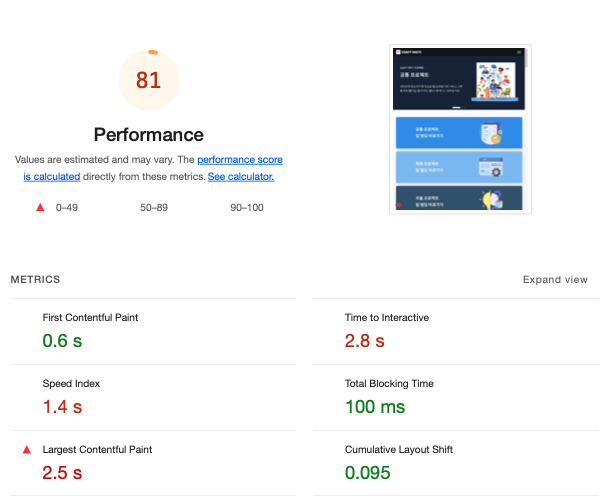
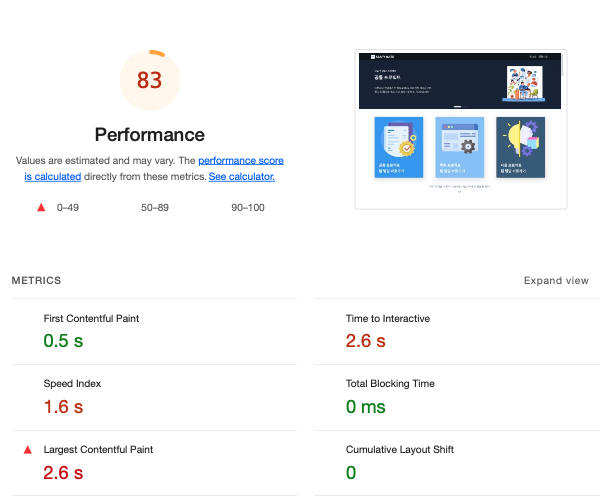
Docs : 웹 성능 최적화 부분 내용 업데이트

diff --git a/README.md b/README.md
@@ -70,7 +70,7 @@
 
 |   버전   | <div align="center">업데이트 내용</div>                                                                                                                                                                                                                                                                                                                                         | 업데이트 날짜 |
 | :------: | :------------------------------------------------------------------------------------------------------------------------------------------------------------------------------------------------------------------------------------------------------------------------------------------------------------------------------------------------------------------------------ | :-----------: |
-| `v1.2.5` | - 홈 배너 애니메이션 파일들을 기본 이미지 파일로 교체<br />- 프로젝트 트랙 소개 배너 mp4 파일들을 webp 파일 형식으로 교체<br />- 페이지 헤딩 처리 개편                                                                                                                                                                                                                          |   22.03.15.   |
+| `v1.2.5` | - 홈 배너 애니메이션 파일들을 기본 이미지 파일로 교체<br />- 프로젝트 트랙 소개 배너 mp4 파일들을 webp 파일 형식으로 교체<br />- 페이지 헤딩 처리 개편                                                                                                                                                                                                                          |   22.03.16.   |
 | `v1.2.4` | - 프로젝트 트랙 소개 배너 gif 파일 mp4 파일로 변경<br />- 서비스 Description 수정<br />- 서비스 로고 이미지 최적화                                                                                                                                                                                                                                                              |   22.03.14.   |
 | `v1.2.3` | - 채팅 서버 URL 수정                                                                                                                                                                                                                                                                                                                                                            |   22.03.07.   |
 | `v1.2.2` | - 첫 페이지 웹 성능 최적화<br />- 페이지 헤딩 처리 수정                                                                                                                                                                                                                                                                                                                         |   22.03.07.   |
@@ -194,15 +194,18 @@
 
 ### 웹 성능 최적화
 
-|                                              웹 성능 최적화 전                                              |                                             웹 성능 최적화 후                                              |
+|                                              웹 성능 최적화 전                                              |                                     웹 성능 최적화 후 (22.03.16. 기준)                                     |
 | :---------------------------------------------------------------------------------------------------------: | :--------------------------------------------------------------------------------------------------------: |
 | <img src="./readme_assets/before-web-optimization.png" alt="웹 성능 최적화 전 분석 이미지" width="500px" /> | <img src="./readme_assets/after-web-optimization.png" alt="웹 성능 최적화 후 분석 이미지" width="500px" /> |
 
 - '지연 로딩(Lazy Loading)' 적용
 - 이미지 파일 최적화
-- gif 파일들을 mp4 파일들로 교체
+  - 이미지 Meta Data 제거 및 최적화
+  - 뷰포트에 따른 여러 버전의 이미지 제공
+- gif 파일들을 webp, png 파일들로 교체
+- 불필요한 JS 파일 제거
 
-> 위의 작업들을 통해 Performance Score 62점 → 81점 으로 개선, Speed Index 속도 3.5초 → 1.4초로 개선
+> 위의 작업들을 통해 Performance Score 62점 → 83점으로 개선, Speed Index 속도 3.5초 → 1.4초로 개선
 
 <br />
 
@@ -314,7 +317,7 @@
 | 조원빈 | Back-end<br />팀장 | - DB 설계<br />- Spring Data JPA 세팅<br />&nbsp;&nbsp;&nbsp;&nbsp;- 채팅 도메인 개발<br />&nbsp;&nbsp;&nbsp;&nbsp;- 로그인 도메인 개발<br />- TypeScript, Nest.js와 Socket.io를 이용한 실시간 채팅 서버 구현<br />&nbsp;&nbsp;&nbsp;&nbsp;- 웹소켓 연결<br />&nbsp;&nbsp;&nbsp;&nbsp;- 1대1 실시간 채팅 구현<br />- JWT를 이용한 토큰 생성 구현<br />- 채팅 서버 EC2 배포<br />- crontab 이용한 Linux mysql DB 백업 스케줄러 작동<br />- 'ssafymate.site' 도메인 적용                                                                                                                                                                                                                                                                                                                                                                                                                                                                                                                                                                                                                   |
 | 손영배 |      Back-end      | - DB 설계<br />- Spring Boot로 RESTful API 작성<br />&nbsp;&nbsp;&nbsp;&nbsp;- 로그인 도메인 개발<br />&nbsp;&nbsp;&nbsp;&nbsp;- 회원가입 도메인 개발<br />&nbsp;&nbsp;&nbsp;&nbsp;- 아이디 찾기 도메인 개발<br />&nbsp;&nbsp;&nbsp;&nbsp;- 비밀번호 재설정 도메인 개발<br />&nbsp;&nbsp;&nbsp;&nbsp;- 회원 정보 조회 및 수정 도메인 개발<br />- SMTP Server, Redis를 이용한 이메일 인증 기능 구현<br />- 스프링 시큐리티, JWT를 이용한 인증 구현<br />- EC2 인프라 환경 세팅<br />- 프론트엔드, 백엔드 EC2 배포<br />- Github Action, Jenkins, Docker를 활용한 CI/CD<br />- Letsencrypt, Certbot을 이용한 서비스 SSL 보안 적용<br />- Nginx 웹서버 적용(Load Balancing, Reverse Proxy, Service Redirect 설정)                                                                                                                                                                                                                                                                                                                                                                           |
 | 이정훈 |      Back-end      | - DB 설계<br />&nbsp;&nbsp;&nbsp;&nbsp;- 기술 스택 데이터 전처리<br />&nbsp;&nbsp;&nbsp;&nbsp;- 교육생 인증 데이터 전처리<br />- 서버에 기술 스택 이미지 업로드<br />- Spring Boot로 RESTful API 작성<br />&nbsp;&nbsp;&nbsp;&nbsp;- 기술 스택 조회 서비스 도메인 개발<br />&nbsp;&nbsp;&nbsp;&nbsp;- 팀 생성/수정/삭제 서비스 도메인 개발<br />&nbsp;&nbsp;&nbsp;&nbsp;- 팀 상세보기 서비스 도메인 개발<br />&nbsp;&nbsp;&nbsp;&nbsp;- 팀 탈퇴 서비스 도메인 개발<br />&nbsp;&nbsp;&nbsp;&nbsp;- 팀 리스트 검색 서비스 도메인 개발<br />&nbsp;&nbsp;&nbsp;&nbsp;- 팀 합류/지원 요청 서비스 도메인 개발<br />&nbsp;&nbsp;&nbsp;&nbsp;- 팀 합류/지원 메세지 조회 서비스 도메인 개발<br />&nbsp;&nbsp;&nbsp;&nbsp;- 팀 합류/지원 요청 응답 서비스 도메인 개발<br />&nbsp;&nbsp;&nbsp;&nbsp;- 교육생 상세보기 서비스 도메인 개발<br />&nbsp;&nbsp;&nbsp;&nbsp;- 교육생 리스트 검색 서비스 도메인 개발<br />&nbsp;&nbsp;&nbsp;&nbsp;- 교육생 프로젝트 트랙 선택 서비스 도메인 개발<br />&nbsp;&nbsp;&nbsp;&nbsp;- 참여 중인 팀 조회 서비스 도메인 개발                                       |
-| 박정환 |     Front-end      | - '싸피 메이트' 서비스 기획<br />- 서비스 메인 홈 페이지 개발<br />- 팀 공고, 교육생 공고 정보 제공 및 검색 서비스 개발<br />- 팀 생성 · 수정 · 삭제 · 탈퇴 서비스 개발<br />- 팀 합류 요청 및 팀 지원 요청 서비스 개발<br />- 404 Not Found 페이지 개발<br />- 팀, 교육생 공고 목록 페이지, 상세 정보 페이지의 Skeleton UI 구현<br />- 'Redux', 'React-Query'를 이용한 상태관리<br />- 'Emotion'을 이용한 CSS-in-JS 방식으로 스타일링 구현 <br />- 'Media Query'와 'React-Responsive'를 이용한 반응형 웹 구현<br />- 검색 엔진 최적화(SEO) 작업<br />&nbsp;&nbsp;&nbsp;&nbsp;- Meta Data들을 설정하고 체계화된 Heading 처리 및 시멘틱 마크업 사용,<br />&nbsp;&nbsp;&nbsp;&nbsp;- SEO Score 100점 달성<br />- 웹 성능 최적화 작업<br />&nbsp;&nbsp;&nbsp;&nbsp;- 'Lazy Loading' 적용<br />&nbsp;&nbsp;&nbsp;&nbsp;- 이미지 파일 최적화 등을 통해 웹 성능 최적화 진행<br />&nbsp;&nbsp;&nbsp;&nbsp;- Performance Score 62점 → 81점으로 개선<br />&nbsp;&nbsp;&nbsp;&nbsp;- Speed Index 속도 3.5초 → 1.4초로 개선<br />- 'Mock Service Worker'를 이용해 목업 API 구현하여 API 테스트 진행 |
+| 박정환 |     Front-end      | - '싸피 메이트' 서비스 기획<br />- 서비스 메인 홈 페이지 개발<br />- 팀 공고, 교육생 공고 정보 제공 및 검색 서비스 개발<br />- 팀 생성 · 수정 · 삭제 · 탈퇴 서비스 개발<br />- 팀 합류 요청 및 팀 지원 요청 서비스 개발<br />- 404 Not Found 페이지 개발<br />- 팀, 교육생 공고 목록 페이지, 상세 정보 페이지의 Skeleton UI 구현<br />- 'Redux', 'React-Query'를 이용한 상태관리<br />- 'Emotion'을 이용한 CSS-in-JS 방식으로 스타일링 구현 <br />- 'Media Query'와 'React-Responsive'를 이용한 반응형 웹 구현<br />- 검색 엔진 최적화(SEO) 작업<br />&nbsp;&nbsp;&nbsp;&nbsp;- Meta Data들을 설정하고 체계화된 Heading 처리 및 시멘틱 마크업 사용,<br />&nbsp;&nbsp;&nbsp;&nbsp;- SEO Score 100점 달성<br />- 웹 성능 최적화 작업<br />&nbsp;&nbsp;&nbsp;&nbsp;- 'Lazy Loading' 적용<br />&nbsp;&nbsp;&nbsp;&nbsp;- 이미지 파일 최적화 등을 통해 웹 성능 최적화 진행<br />&nbsp;&nbsp;&nbsp;&nbsp;- Performance Score 62점 → 83점으로 개선<br />&nbsp;&nbsp;&nbsp;&nbsp;- Speed Index 속도 3.5초 → 1.4초로 개선<br />- 'Mock Service Worker'를 이용해 목업 API 구현하여 API 테스트 진행 |
 | 소정은 |     Front-end      | - Emotion을 이용한 CSS-in-JS 방식으로 스타일링 작업<br />- Media Query를 이용한 반응형 UI 설계<br />&nbsp;&nbsp;&nbsp;&nbsp;- MUI를 이용해 모바일, 태블릿 등의 뷰포트에 따른 채팅 목록 Drawer 적용<br />- Custom hook을 이용한 채팅 입력 상태 관리<br />- Socket.io를 이용한 WebRTC 채팅 구현<br />&nbsp;&nbsp;&nbsp;&nbsp;- 1:1 실시간 채팅 구현, 메시지 주고 받기<br />&nbsp;&nbsp;&nbsp;&nbsp;- Socket의 namespace를 나누어 사용자가 타인의 채팅방에 접속하는 것 제한<br />&nbsp;&nbsp;&nbsp;&nbsp;- Socket으로 로그인, 로그아웃 상태를 전달해 접속 중인 사용자의 온라인 상태 동기화<br />- SWR을 이용한 채팅 목록, 채팅 내역 상태 관리 및 비동기 API 처리<br />&nbsp;&nbsp;&nbsp;&nbsp;- 채팅 내역 스크롤 이동에 따른 데이터 페이징 API 처리, 무한 스크롤링 구현<br />- Mock Service Worker를 이용해 목업 API 구현하여 백엔드 API 설계 이전 API 테스팅 진행                                                                                                                                                                                                                          |
 | 이여진 |     Front-end      | - 회원가입 서비스 개발<br />&nbsp;&nbsp;&nbsp;&nbsp;- React-hook-form 을 이용한 회원가입 form 관리<br />&nbsp;&nbsp;&nbsp;&nbsp;- 이메일 인증을 통한 회원가입 구현<br />- 로그인<br />&nbsp;&nbsp;&nbsp;&nbsp;- Redux, Redux Saga를 통한 회원 정보 상태 관리<br />- 회원 정보 수정 서비스 개발<br />&nbsp;&nbsp;&nbsp;&nbsp;- React custom hook 사용<br />&nbsp;&nbsp;&nbsp;&nbsp;- Redux, Redux-Saga를 통한 회원 정보 상태 관리<br />- Redux를 통한 전역 Alert 서비스 개발<br />- 아이디찾기, 비밀번호 재설정 서비스 개발<br />- 입력값에 대한 유효성 검사를 통해 불필요한 통신 최소화<br />- Emotion을 이용한 CSS-in-JS 방식으로 스타일링 작업<br />- 미디어 쿼리를 이용한 반응형 구현<br />- Mock Service Worker를 이용해 목업 API 구현하여 백엔드 API 설계 이전 API 테스팅 진행                                                                                                                                                                                                                                                                                                      |
 
